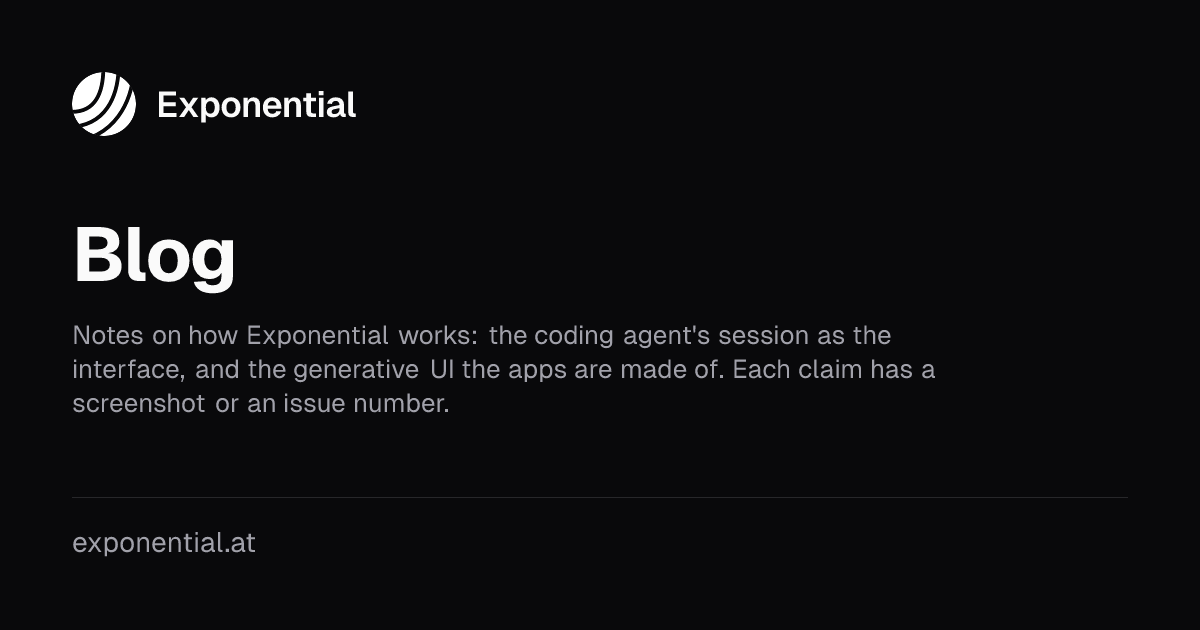
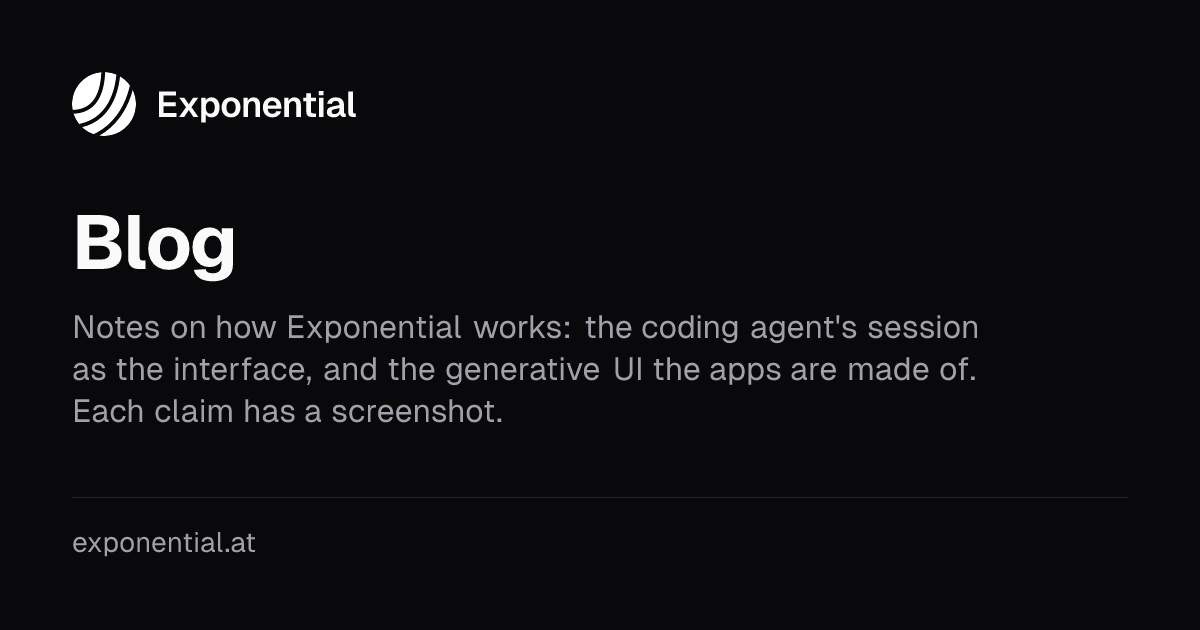
EXP-1390: blog without issue numbers, bigger type on the styleguide scale
Posts no longer cite tracker issues (no public board): sentences rewritten,
IssueLink removed, and the prerender refuses a blog page or the feed that
renders an issue identifier. Post body, lead and the index list move up onto
the styleguide type scale, mirrored into site-shell tokens.css with a parity test.

Changed region(s): [[0.0617, 0.4825, 0.8325, 0.6032], [0.0617, 0.6333, 0.4317, 0.6937], [0.0617, 0.3317, 0.2158, 0.4825]]

diff --git a/apps/marketing/src/blog/ui-as-data-down-to-the-compositor.tsx b/apps/marketing/src/blog/ui-as-data-down-to-the-compositor.tsx
@@ -4,7 +4,7 @@
    (surfaces.ts) painted by the Exponential UI React renderer; the captures
    are real shots from the store. Written to describe, not to sell: every
    claim names what exists and what is a drawing. */
-import { Callout, CompositorTree, ConceptFigure, DesktopConcept, IssueLink, LiveSurface, Section, Shot, ShotRow, StatusChip, WatchView } from "../components/blog"
+import { Callout, CompositorTree, ConceptFigure, DesktopConcept, LiveSurface, Section, Shot, ShotRow, StatusChip, WatchView } from "../components/blog"
 import { EXPENSE_SURFACE } from "./surfaces"
 import type { PostMeta } from "./types"
 
@@ -35,7 +35,7 @@ export function Post() {
           A2UI is an open wire format for user interfaces, started at Google: a flat list of components from a
           fixed catalog, a data model they bind to, and the actions they send back. A language model can write one,
           because the catalog fits in a prompt, and a renderer paints it with each platform's own toolkit: SwiftUI,
-          Compose, gpui, the DOM. Exponential UI (<IssueLink id="VAPP-84" />) is one implementation. A Rust core
+          Compose, gpui, the DOM. Exponential UI is one implementation. A Rust core
           lays out the tree, three native painters draw it, and the React, Solid and web-component renderers pass
           the same conformance replays. A theme is a JSON file loaded at runtime.
         </p>
@@ -54,8 +54,7 @@ export function Post() {
       <Section id="desktop" num="02" label="Desktop">
         <h2>A desktop made of the same data <StatusChip status="planned" /></h2>
         <p>
-          If a card can be data, so can a panel. The desktop environment in planning (<IssueLink id="NEW-10" />,{` `}
-          <IssueLink id="VAPP-64" />) keeps its panel, launcher, settings and file view as surfaces on disk, painted
+          If a card can be data, so can a panel. The desktop environment we are planning keeps its panel, launcher, settings and file view as surfaces on disk, painted
           by the same renderer, with existing applications running beside them as ordinary Wayland and X clients.
         </p>
         <ul>
@@ -74,10 +73,9 @@ export function Post() {
         </ul>
         <p>
           Voice sits in the tray, one key away: push-to-talk or a wake word, local speech-to-text, short commands
-          acted on at once, everything else sent to the assistant session and answered aloud
-          (<IssueLink id="NEW-9" />). Today, computer use runs in the foreground on Linux (X11), macOS and Windows,
-          with your input held and Esc to take it back (<IssueLink id="EXP-1196" />); a second pointer on X11 was
-          tried and removed after it fought the person's cursor (<IssueLink id="EXP-1273" />).
+          acted on at once, everything else sent to the assistant session and answered aloud. Today, computer use
+          runs in the foreground on Linux (X11), macOS and Windows, with your input held and Esc to take it back; a
+          second pointer on X11 was tried and removed after it fought the person's cursor.
         </p>
         <ConceptFigure id="desktop" still="desktop-concept" caption="Draft of the desktop: two agents in their own windows with their own seats, the expense form streaming in from a request, the mic in the tray.">
           <DesktopConcept />
@@ -124,7 +122,7 @@ export function Post() {
         <p>
           A step the agent marks as irreversible, or that matches a rule you set (payments, deletes), waits for
           confirmation. The step line and the agent's messages are recorded as timestamped A2UI messages, a few
-          kilobytes you can scrub (<IssueLink id="VAPP-81" />); the window capture itself is video, or a keyframe per
+          kilobytes you can scrub; the window capture itself is video, or a keyframe per
           step. The spoken caption is the same line the tray reads aloud.
         </p>
         <ConceptFigure id="watch" still="watch-view" caption="Draft of the watch view: the live window with the agent's cursor and its target, the step line, the spoken caption.">

diff --git a/apps/marketing/src/blog/session-as-interface.tsx b/apps/marketing/src/blog/session-as-interface.tsx
@@ -1,6 +1,6 @@
 /* Article 1 (EXP-1367): the session as the interface. Written like a Guide:
    numbered sections, two or three sentences, a real capture each. */
-import { Callout, IssueLink, Section, Shot, ShotRow } from "../components/blog"
+import { Callout, Section, Shot, ShotRow } from "../components/blog"
 import { shotSrc } from "../components/DocShot"
 import type { PostMeta } from "./types"
 
@@ -36,8 +36,8 @@ export function Post() {
         <h2>Tool calls drawn by kind</h2>
         <p>
           File reads, searches and commands fold into one-line trace entries; a failing test run turns red and opens
-          onto its output. A comment written through MCP is drawn as the comment (<IssueLink id="EXP-1241" />), a
-          code-mode script as one card with its calls grouped by tool (<IssueLink id="EXP-1279" />). The engine tags
+          onto its output. A comment written through MCP is drawn as the comment itself, and a code-mode script as
+          one card with its calls grouped by tool. The engine tags
           every call with a kind before it reaches a client, so all four platforms draw the same card.
         </p>
         <Shot view="trace" platform="web" caption="Trace lines: a command with its output, a sub-agent, a failed test run, the task list." />
@@ -49,7 +49,7 @@ export function Post() {
           Any issue identifier in a message, a comment or a tool result is a chip: status glyph, identifier, title.
           Hover shows the assignee, status, priority and labels from data the client already has; a click opens the
           issue in the nearest view that shows it. Tool results return references by kind and id, not URLs, and
-          each client resolves them from its own rows (<IssueLink id="EXP-988" />).
+          each client resolves them from its own rows.
         </p>
         <Shot view="thread" platform="web" caption="Issue chips in the tab strip, in the agent's text and in a child's report." />
       </Section>
@@ -59,8 +59,7 @@ export function Post() {
         <p>
           The agent uploads a screenshot through MCP and references it in markdown; the message, comment or plan
           renders it inline on every platform. When the agent reads an attachment back, the inline copy is capped at
-          about 300 KB and 1280 px, because one full phone screenshot costs tens of thousands of tokens
-          (<IssueLink id="EXP-854" />).
+          about 300 KB and 1280 px, because one full phone screenshot costs tens of thousands of tokens.
         </p>
       </Section>
 
@@ -68,8 +67,7 @@ export function Post() {
         <h2>The agent draws its own UI</h2>
         <p>
           A plan or a question can carry an A2UI surface: the agent describes a screen as JSON and the card paints it
-          with the Exponential UI renderer, native on web, iPhone, Android and the desktop app
-          (<IssueLink id="EXP-1280" />). On the native platforms there is no webview in between, on the web the
+          with the Exponential UI renderer, native on web, iPhone, Android and the desktop app. On the native platforms there is no webview in between, on the web the
           renderer emits DOM, and what the person sets in the surface travels back with the answer.
         </p>
         <Shot view="plan-card" platform="web" caption="A plan card: a picture, the agent's surface as a live preview, a choice question." />
@@ -106,7 +104,7 @@ export function Post() {
         <p>
           One tool, <code>sessions.send</code>, messages a session or a team agent, or starts a child. The server
           posts every child transition into the parent as a message, and a message is what wakes a session, so
-          nothing polls (<IssueLink id="NEW-1" />). A team agent is a session with a longer life: a channel that
+          nothing polls. A team agent is a session with a longer life: a channel that
           triages, reports and starts threads.
         </p>
         <Shot view="agent-channel" platform="web" caption="A team agent's channel: its reports, a request, the thread it started as one card." />

diff --git a/apps/marketing/src/styles/blog.css b/apps/marketing/src/styles/blog.css
@@ -1,7 +1,8 @@
 /* ─── Blog (EXP-1366): the index cards, the post page, the post components
    and the home strip. The prose itself wears the docs typography
    (@exp/site-shell/styles/docs.css `.docs-content`), so an article reads
-   like a docs page; everything here is the frame around it. ─── */
+   like a docs page; everything here is the frame around it. Sizes come
+   off the styleguide type scale (--type-size-*, site-shell tokens.css). ─── */
 
 /* ── Index: a heading, one line, the posts by year ── */
 .blog-index {
@@ -22,8 +23,8 @@
 
 .blog-index-intro {
   margin: 0 0 36px;
-  font-size: 15.5px;
-  line-height: 1.6;
+  font-size: var(--type-size-lg);
+  line-height: var(--type-line-height-lg);
   color: var(--fg);
 }
 
@@ -40,7 +41,8 @@
 
 .blog-year-label {
   margin: 0 0 8px;
-  font-size: 13px;
+  font-size: var(--type-size-sm);
+  line-height: var(--type-line-height-sm);
   font-weight: 500;
   color: var(--fg-dim);
 }
@@ -59,16 +61,16 @@
 .blog-row {
   display: flex;
   align-items: center;
-  gap: 14px;
-  padding: 7px 0;
+  gap: 16px;
+  padding: 8px 0;
   color: var(--fg);
   border-bottom: 0 !important;
 }
 
 .blog-row-thumb {
   flex-shrink: 0;
-  width: 72px;
-  height: 48px;
+  width: 84px;
+  height: 56px;
   object-fit: cover;
   object-position: top left;
   border: 1px solid var(--glass-stroke-card);
@@ -79,10 +81,10 @@
 .blog-row-title {
   flex: 1;
   min-width: 0;
-  font-size: 16px;
+  font-size: var(--type-size-xl);
   font-weight: 500;
   letter-spacing: -0.01em;
-  line-height: 1.35;
+  line-height: var(--type-line-height-xl);
 }
 
 .blog-row:hover .blog-row-title {
@@ -93,7 +95,8 @@
 
 .blog-row-date {
   flex-shrink: 0;
-  font-size: 13.5px;
+  font-size: var(--type-size-base);
+  line-height: var(--type-line-height-base);
   color: var(--fg-dim);
 }
 
@@ -129,14 +132,15 @@
 
 .blog-lead {
   margin: 0 0 14px;
-  font-size: 19px;
-  line-height: 1.55;
+  font-size: var(--type-size-xl2);
+  line-height: var(--type-line-height-xl2);
   color: var(--fg-muted);
 }
 
 .blog-author {
   margin: 0;
-  font-size: 13.5px;
+  font-size: var(--type-size-sm);
+  line-height: var(--type-line-height-sm);
   color: var(--fg-dim);
 }
 
@@ -148,11 +152,12 @@
   padding-top: 8px;
 }
 
-/* The article reads at 18px, two sizes above the docs' 14.5px. */
+/* The article reads at the scale's xl (20px), prose leading over the
+   scale's UI line height. */
 .blog-prose p,
 .blog-prose ul,
 .blog-prose ol {
-  font-size: 18px;
+  font-size: var(--type-size-xl);
   line-height: 1.6;
 }
 
@@ -161,7 +166,7 @@
 }
 
 .blog-prose code:not(pre code) {
-  font-size: 15px;
+  font-size: var(--type-size-lg);
 }
 
 .blog-prose h2 {
@@ -358,17 +363,6 @@
   background: var(--st-progress);
 }
 
-.docs-content a.blog-issue {
-  font-family: var(--font-mono);
-  font-size: 14px;
-  padding: 1px 6px;
-  border: 1px solid var(--border);
-  border-radius: 4px;
-  background: var(--bg-elev);
-  color: var(--fg);
-  white-space: nowrap;
-}
-
 /* ── Home strip ── */
 .home-blog {
   border-top: 1px solid var(--glass-stroke-section);
@@ -396,17 +390,22 @@
   }
 
   .blog-row-title {
-    flex-basis: calc(100% - 86px);
+    flex-basis: calc(100% - 100px);
   }
 
   .blog-row-date {
-    padding-left: 86px;
+    padding-left: 100px;
   }
 }
 
 @media (max-width: 720px) {
   .blog-post {
     padding-top: 24px;
+  }
+
+  .blog-lead {
+    font-size: var(--type-size-xl);
+    line-height: var(--type-line-height-xl);
   }
 
   .blog-surface[data-live="ready"] .blog-surface-frame {

diff --git a/apps/marketing/scripts/prerender.tsx b/apps/marketing/scripts/prerender.tsx
@@ -124,6 +124,29 @@ function assertReadingTimes(): void {
   }
 }
 
+/* No tracker references on the blog (EXP-1390): there is no public board,
+   so an issue identifier is a dead end for a reader. Every rendered blog
+   page (markup and attributes) and the feed are scanned for anything
+   shaped like one; the build refuses and names it. Display connector names
+   in the concept drawings (`DP-1`) and the feed's `UTF-8` are the allowed shapes. */
+const ISSUE_IDENTIFIER = /\b[A-Z][A-Z0-9]*-\d+\b/g
+const NOT_AN_ISSUE = /^(DP|UTF)-\d+$/
+
+function assertNoIssueIdentifiers(): void {
+  const pages: [string, string][] = [
+    [BLOG_PATH, renderToStaticMarkup(<BlogIndexPage />)],
+    ...BLOG_POSTS.map((post): [string, string] => [postPath(post.meta.slug), renderToStaticMarkup(<BlogPostPage post={post} />)]),
+    [`${BLOG_PATH}rss.xml`, rssXml({ origin: SITE_ORIGIN, siteName: SITE_NAME, posts: BLOG_POSTS.map((post) => post.meta) })],
+  ]
+  const offenders = pages.flatMap(([path, html]) => {
+    const ids = [...new Set(html.match(ISSUE_IDENTIFIER) ?? [])].filter((id) => !NOT_AN_ISSUE.test(id))
+    return ids.length ? [`${path}: ${ids.join(`, `)}`] : []
+  })
+  if (offenders.length) {
+    throw new Error(`blog: issue identifiers render on a public page (no public board):\n${offenders.join(`\n`)}`)
+  }
+}
+
 const SECTIONS = [
     { heading: `Product`, paths: [`/`, `/pricing/`, `/download/`] },
     {
@@ -155,6 +178,7 @@ const SECTIONS = [
 assertDocsNavParity()
 assertTitleParity()
 assertReadingTimes()
+assertNoIssueIdentifiers()
 prerenderSite({
   root: ROOT,
   origin: SITE_ORIGIN,

diff --git a/apps/web/src/lib/design-tokens.test.ts b/apps/web/src/lib/design-tokens.test.ts
@@ -327,6 +327,30 @@ describe(`design-tokens parity with web styles.css`, () => {
     }
   })
 
+  // EXP-1390: the marketing sites (site-shell) set their type on the same
+  // scale, so their :root mirrors type.size / type.lineHeight.
+  it(`site-shell tokens.css mirrors the type scale`, () => {
+    const siteCss = readFileSync(
+      join(repoRoot, `packages/site-shell/styles/tokens.css`),
+      `utf8`
+    ).replace(/\/\*[\s\S]*?\*\//g, ``)
+    const siteVars = parseBlockVars(siteCss, /:root\s*\{([^}]*)\}/, `site-shell :root`)
+    const groups: [string, Record<string, number>][] = [
+      [`type-size`, tokens.type.size],
+      [`type-line-height`, tokens.type.lineHeight],
+    ]
+    for (const [prefix, group] of groups) {
+      for (const [key, value] of Object.entries(group)) {
+        if (key.startsWith(`$`)) continue
+        const cssVar = `${prefix}-${kebab(key)}`
+        expect(
+          siteVars[cssVar],
+          `tokens ${prefix}.${key} should equal --${cssVar} in site-shell tokens.css`
+        ).toBe(`${value}px`)
+      }
+    }
+  })
+
   // EXP-1074: menu row geometry, both density classes, as flat px vars in
   // :root — the live --menu-* set aliases one of them per breakpoint, and
   // every menu-like row in @exp/ui reads the live set.

diff --git a/apps/marketing/src/blog/seo.ts b/apps/marketing/src/blog/seo.ts
@@ -7,7 +7,7 @@ import { BLOG_POSTS } from "./posts"
 import { BLOG_PATH, postPath } from "./types"
 
 export const BLOG_INDEX_TITLE = `Blog · Exponential`
-export const BLOG_INDEX_DESCRIPTION = `Notes on how Exponential works: the coding agent's session as the interface, and the generative UI the apps are made of. Each claim has a screenshot or an issue number.`
+export const BLOG_INDEX_DESCRIPTION = `Notes on how Exponential works: the coding agent's session as the interface, and the generative UI the apps are made of. Each claim has a screenshot.`
 
 export const postTitle = (title: string) => `${title} · Exponential blog`
 

diff --git a/apps/marketing/src/BlogIndexPage.tsx b/apps/marketing/src/BlogIndexPage.tsx
@@ -13,8 +13,8 @@ export function BlogIndexPage() {
           <div className="shell blog-index-inner">
             <h1>Blog</h1>
             <p className="blog-index-intro">
-              Notes on how Exponential works and where it goes, with the screenshots and the issue numbers behind
-              each claim. <a href={`${BLOG_PATH}rss.xml`}>RSS</a>
+              Notes on how Exponential works and where it goes, with a screenshot behind each claim.{` `}
+              <a href={`${BLOG_PATH}rss.xml`}>RSS</a>
             </p>
             <PostList posts={BLOG_POSTS.map((post) => post.meta)} byYear />
           </div>

diff --git a/packages/site-shell/styles/tokens.css b/packages/site-shell/styles/tokens.css
@@ -83,6 +83,22 @@
   --radius-sheet: 24px;
   --radius-pill: 999px;
 
+  /* Type scale (styleguide, SLOP-18) — mirrors packages/design-tokens
+     tokens.json `type.size`/`type.lineHeight`; design-tokens.test.ts
+     guards the parity. */
+  --type-size-xs: 12px;
+  --type-size-sm: 14px;
+  --type-size-base: 16px;
+  --type-size-lg: 18px;
+  --type-size-xl: 20px;
+  --type-size-xl2: 24px;
+  --type-line-height-xs: 16px;
+  --type-line-height-sm: 20px;
+  --type-line-height-base: 24px;
+  --type-line-height-lg: 28px;
+  --type-line-height-xl: 28px;
+  --type-line-height-xl2: 32px;
+
   color-scheme: dark;
 }
 

diff --git a/apps/marketing/src/components/blog/concepts/WatchView.tsx b/apps/marketing/src/components/blog/concepts/WatchView.tsx
@@ -77,7 +77,7 @@ export function WatchView() {
         <span className="wv-current">
           <em className="wv-current--4">4 · Click Export CSV · routed click</em>
           <em className="wv-current--5">5 · Wait for download</em>
-          <em className="wv-current--6">6 · Attach CSV to #S-1</em>
+          <em className="wv-current--6">6 · Attach CSV to the report</em>
         </span>
         <span className="wv-time">01:23 / 02:14 · step replay</span>
       </div>

diff --git a/apps/marketing/src/components/blog/index.ts b/apps/marketing/src/components/blog/index.ts
@@ -1,6 +1,5 @@
 export { Figure, Shot, ShotRow } from "./Figure"
 export { StatusChip } from "./StatusChip"
-export { IssueLink } from "./IssueLink"
 export { BeforeAfter } from "./BeforeAfter"
 export { LiveSurface } from "./LiveSurface"
 export { CompositorTree, ConceptFigure, DesktopConcept, WatchView } from "./concepts"
